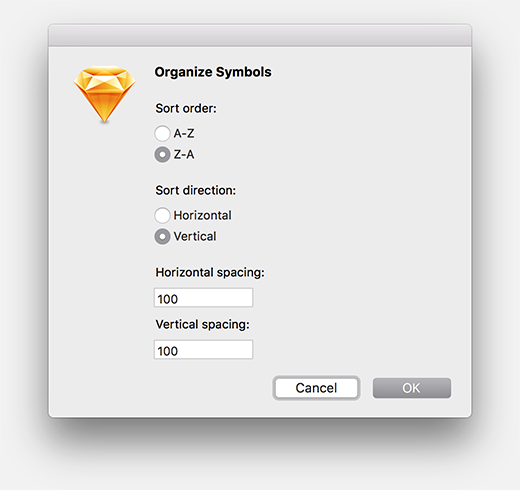
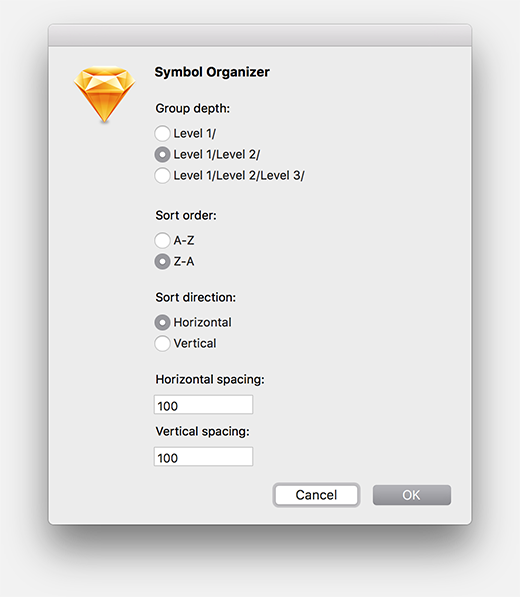
Added the ability to choose the depth of the symbol groupings.

Changed region(s): [[0.0923, 0.0612, 0.9231, 0.7959], [0.0923, 0.7653, 0.9231, 0.9184]]

diff --git a/SNCR.sketchplugin/Contents/Sketch/organize-symbols.js b/SNCR.sketchplugin/Contents/Sketch/organize-symbols.js
@@ -56,7 +56,7 @@ var onRun = function(context) {
 					var symbolName = symbol.name();
 
 					// Determine a break point in the symbol name
-					var breakPoint = getCharPosition(symbolName,"/",2);
+					var breakPoint = getCharPosition(symbolName,"/",layoutSettings.groupDepth+1);
 
 					// Set a prefix for current group
 					var thisGroupPrefix = (breakPoint > 0) ? symbolName.slice(0,breakPoint) : symbolName.slice(0,symbolName.indexOf("/"));
@@ -153,6 +153,7 @@ var onRun = function(context) {
 
 	function getLayoutSettings() {
 		// Setting variables
+		var groupDepth = 1;
 		var sortOrder = 1;
 		var sortDirection = 1;
 		var xPad = '100';
@@ -160,6 +161,10 @@ var onRun = function(context) {
 
 		// Get cached settings
 		try {
+			if ([command valueForKey:"groupDepth" onLayer:page]) {
+				groupDepth = [command valueForKey:"groupDepth" onLayer:page];
+			}
+
 			if ([command valueForKey:"sortOrder" onLayer:page]) {
 				sortOrder = [command valueForKey:"sortOrder" onLayer:page];
 			}
@@ -184,6 +189,9 @@ var onRun = function(context) {
 
 		[alertWindow setMessageText:@'Organize Symbols'];
 
+		[alertWindow addTextLabelWithValue:@'Group depth:'];
+		[alertWindow addAccessoryView: createRadioButtons(['Level 1/','Level 1/Level 2/','Level 1/Level 2/Level 3/'],groupDepth)];
+
 		[alertWindow addTextLabelWithValue:@'Sort order:'];
 		[alertWindow addAccessoryView: createRadioButtons(['A-Z','Z-A'],sortOrder)];
 
@@ -203,20 +211,22 @@ var onRun = function(context) {
 
 		if (responseCode == 1000) {
 			try {
-				[command setValue:[[[alertWindow viewAtIndex:1] selectedCell] tag] forKey:"sortOrder" onLayer:page];
-				[command setValue:[[[alertWindow viewAtIndex:3] selectedCell] tag] forKey:"sortDirection" onLayer:page];
-				[command setValue:[[alertWindow viewAtIndex:5] stringValue] forKey:"xPad" onLayer:page];
-				[command setValue:[[alertWindow viewAtIndex:7] stringValue] forKey:"yPad" onLayer:page];
+				[command setValue:[[[alertWindow viewAtIndex:1] selectedCell] tag] forKey:"groupDepth" onLayer:page];
+				[command setValue:[[[alertWindow viewAtIndex:3] selectedCell] tag] forKey:"sortOrder" onLayer:page];
+				[command setValue:[[[alertWindow viewAtIndex:5] selectedCell] tag] forKey:"sortDirection" onLayer:page];
+				[command setValue:[[alertWindow viewAtIndex:7] stringValue] forKey:"xPad" onLayer:page];
+				[command setValue:[[alertWindow viewAtIndex:9] stringValue] forKey:"yPad" onLayer:page];
 			}
 			catch(err) {
 				log("Unable to save settings.");
 			}
 
 			return {
-				sortOrder : [[[alertWindow viewAtIndex:1] selectedCell] tag],
-				sortDirection : [[[alertWindow viewAtIndex:3] selectedCell] tag],
-				xPad : [[alertWindow viewAtIndex:5] stringValue],
-				yPad : [[alertWindow viewAtIndex:7] stringValue]
+				groupDepth : [[[alertWindow viewAtIndex:1] selectedCell] tag],
+				sortOrder : [[[alertWindow viewAtIndex:3] selectedCell] tag],
+				sortDirection : [[[alertWindow viewAtIndex:5] selectedCell] tag],
+				xPad : [[alertWindow viewAtIndex:7] stringValue],
+				yPad : [[alertWindow viewAtIndex:9] stringValue]
 			}
 		} else return false;
 	}

diff --git a/README.md b/README.md
@@ -40,6 +40,6 @@ Updates the name of all selected symbol instances to match the name of the maste
 This is the Remove Unused Symbols plugin from Bomberstudios (https://github.com/sketchplugins/remove-unused-symbols), but with feedback.
 
 ## Organize Symbols
-Organize your symbols page and layer list, based on the symbol names. Also provides the ability to layout symbols horizontally or vertically, and reverse the alphabetical sort order of the layer list.
+Organize your symbols page alphabetically (including layer list) and into groupings determined by your symbol names. Also provides the ability to choose the depth of the groups, reverse the layer list sort direction, and to layout symbols horizontally or vertically.
 
 ![Organize Symbols](https://raw.githubusercontent.com/sonburn/sncr-sketch-plugin/master/Screenshots/Organize%20Symbols.png)
